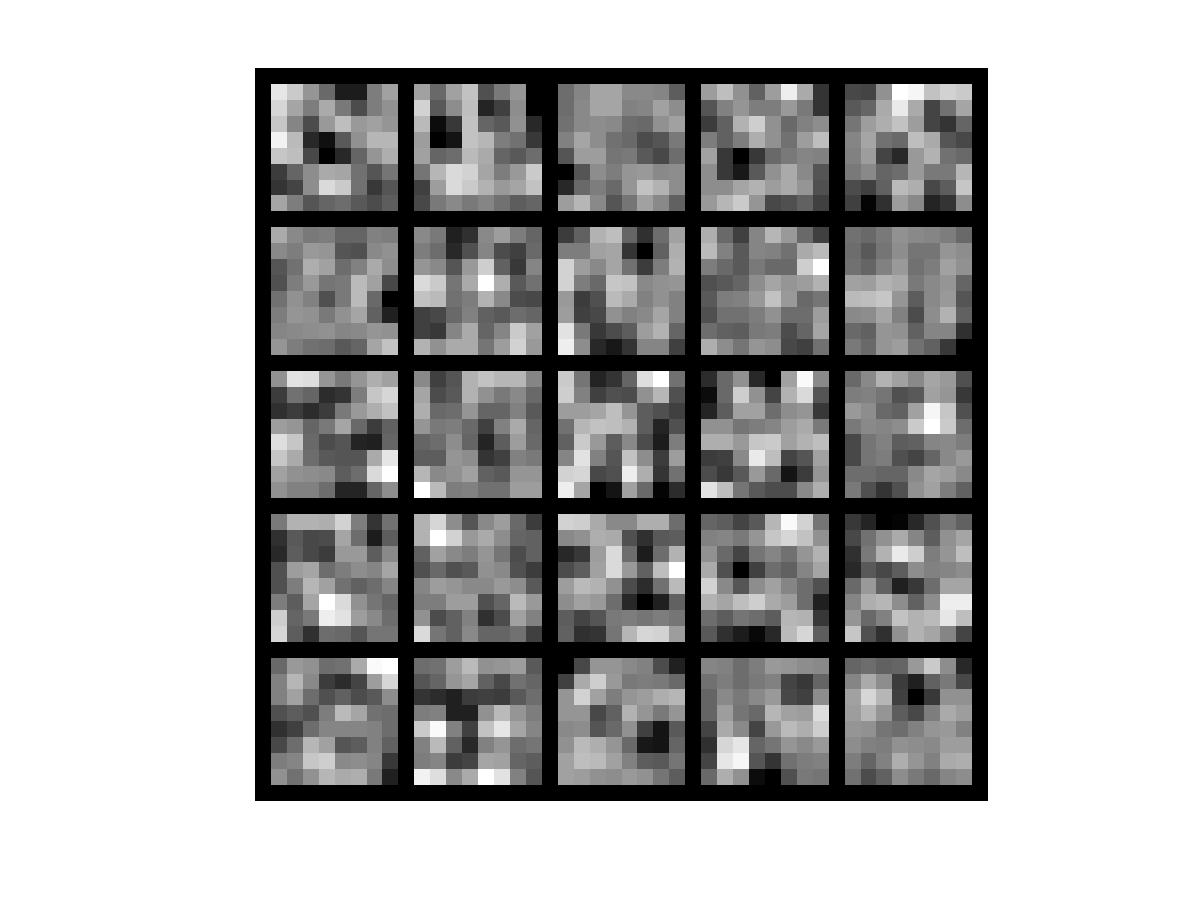
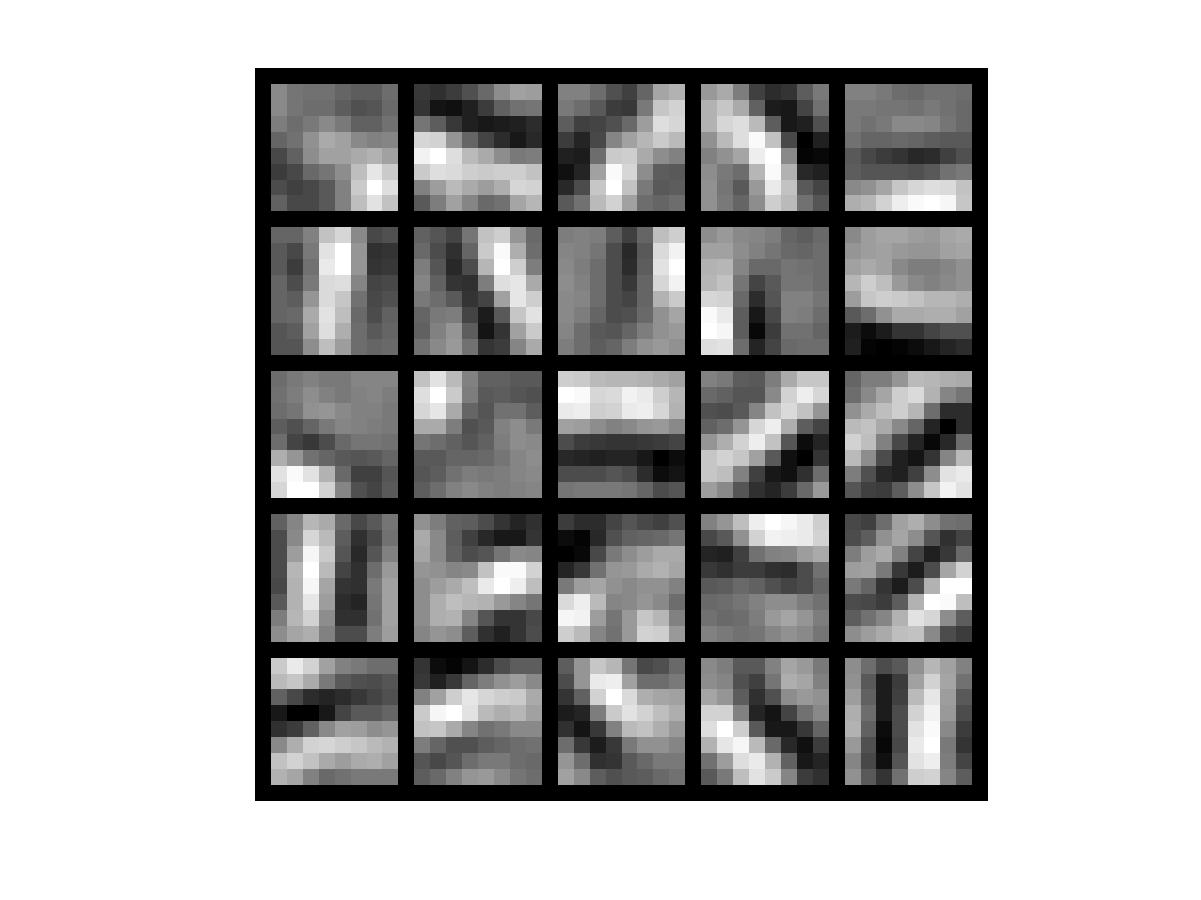
KL sparsity term added

Changed region(s): [[0.2157, 0.0933, 0.8318, 0.8711]]

diff --git a/Autoencoder/train.m b/Autoencoder/train.m
@@ -20,9 +20,9 @@ sparsityParam = 0.01;   % desired average activation of the hidden units.
                      % (This was denoted by the Greek alphabet rho, which looks like a lower-case "p",
 		     %  in the lecture notes). 
 lambda = 0.0001;     % weight decay parameter       
-% beta = 3;            % weight of sparsity penalty term       
+beta = 3;            % weight of sparsity penalty term       
 % lambda = 0;
-beta = 0;
+% beta = 0;
 
 %%======================================================================
 %% STEP 1: Implement sampleIMAGES
@@ -77,26 +77,26 @@ theta = initializeParameters(hiddenSize, visibleSize);
 % First, lets make sure your numerical gradient computation is correct for a
 % simple function.  After you have implemented computeNumericalGradient.m,
 % run the following: 
-checkNumericalGradient();
-
-% Now we can use it to check your cost function and derivative calculations
-% for the sparse autoencoder.  
-numgrad = computeNumericalGradient( @(x) sparseAutoencoderCost(x, visibleSize, ...
-                                                  hiddenSize, lambda, ...
-                                                  sparsityParam, beta, ...
-                                                  patches), theta);
-
-% Use this to visually compare the gradients side by side
-disp([numgrad grad]); 
-
-% Compare numerically computed gradients with the ones obtained from backpropagation
-diff = norm(numgrad-grad)/norm(numgrad+grad);
-disp(diff); % Should be small. In our implementation, these values are
-            % usually less than 1e-9.
-
-            % When you got this working, Congratulations!!! 
-
-pause;
+% checkNumericalGradient();
+% 
+% % Now we can use it to check your cost function and derivative calculations
+% % for the sparse autoencoder.  
+% numgrad = computeNumericalGradient( @(x) sparseAutoencoderCost(x, visibleSize, ...
+%                                                   hiddenSize, lambda, ...
+%                                                   sparsityParam, beta, ...
+%                                                   patches), theta);
+% 
+% % Use this to visually compare the gradients side by side
+% disp([numgrad grad]); 
+% 
+% % Compare numerically computed gradients with the ones obtained from backpropagation
+% diff = norm(numgrad-grad)/norm(numgrad+grad);
+% disp(diff); % Should be small. In our implementation, these values are
+%             % usually less than 1e-9.
+% 
+%             % When you got this working, Congratulations!!! 
+% 
+% pause;
 %%======================================================================
 %% STEP 4: After verifying that your implementation of
 %  sparseAutoencoderCost is correct, You can start training your sparse

diff --git a/Autoencoder/sparseAutoencoderCost.m b/Autoencoder/sparseAutoencoderCost.m
@@ -50,6 +50,8 @@ Z3 = bsxfun(@plus, W2*A2, b2);
 A3 = sigmoid(Z3);
 
 diff = A3 - data;
+p = sparsityParam;
+pHat = 1 / m * sum(A2, 2);
 
 squareError = 0.0;
 for i = 1:m
@@ -59,11 +61,13 @@ end
 % cost = 0.5 / m * sum(diag(diff' * diff)) + lambda / 2 * (sum(sum((W1 .^ 2))) ...
 %     + sum(sum(W2 .^ 2)));
 
-cost = 0.5 / m * squareError + lambda / 2 * (sum(sum((W1 .^ 2))) + sum(sum(W2 .^ 2)));
+cost = 0.5 / m * squareError + lambda / 2 * (sum(sum((W1 .^ 2))) + sum(sum(W2 .^ 2))) ...
+    + beta * sum(p * log(p./pHat) + (1 - p) * log((1 - p)./(1-pHat)));
 
 % Square error term
 D3 = -1 * (data - A3) .* sigmoidGradient(Z3);
-D2 = W2' * D3 .* sigmoidGradient(Z2);
+KL = beta * (-p./pHat + (1-p)./(1-pHat));
+D2 = bsxfun(@plus, W2' * D3, KL) .* sigmoidGradient(Z2);
 W2g = D3 * A2';
 W1g = D2 * data';
 
@@ -82,4 +86,3 @@ b2grad = 1 / m * (D3 * ones(m , 1));
 grad = [W1grad(:) ; W2grad(:) ; b1grad(:) ; b2grad(:)];
 
 end
-

diff --git a/Autoencoder/sampleIMAGES.m b/Autoencoder/sampleIMAGES.m
@@ -5,7 +5,7 @@ function patches = sampleIMAGES()
 load IMAGES;    % load images from disk 
 
 patchsize = 8;  % we'll use 8x8 patches 
-numpatches = 10;
+numpatches = 10000;
 
 % Initialize patches with zeros.  Your code will fill in this matrix--one
 % column per patch, 10000 columns. 
